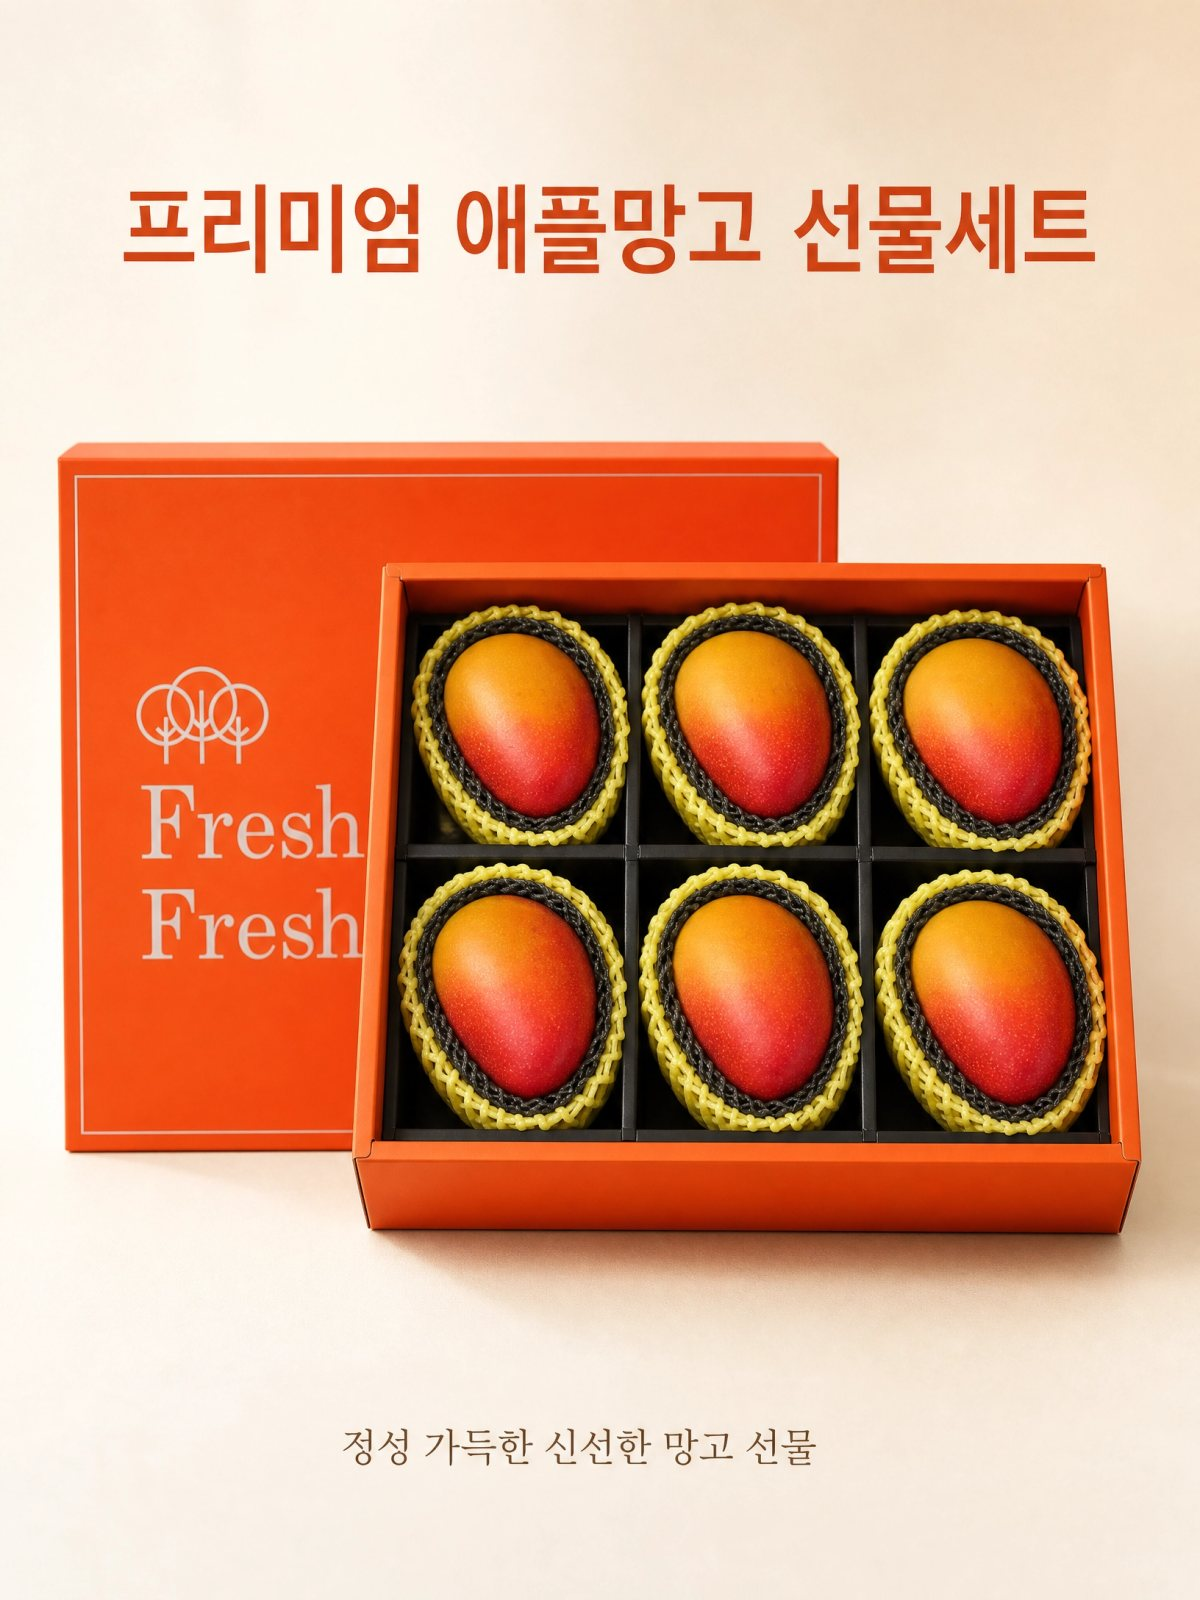
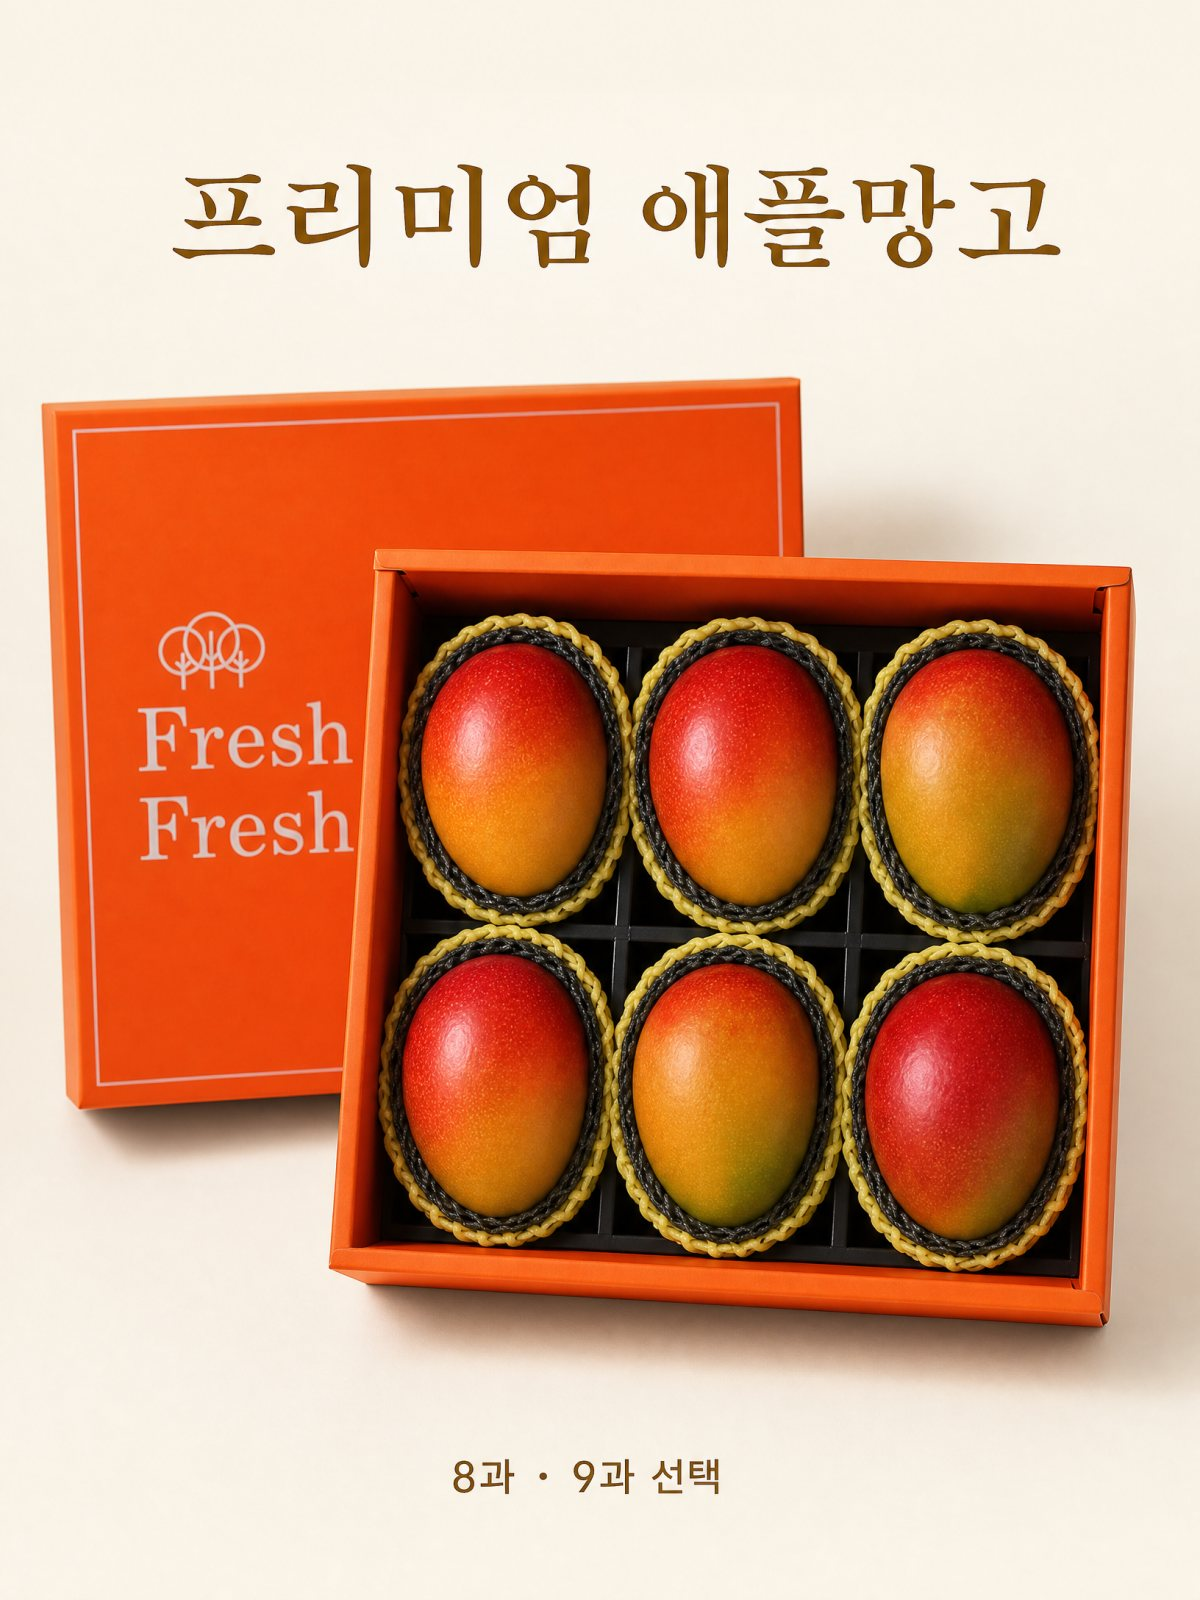
feat(catalog): 선물세트 이미지 갱신 — 가격 제거본 반영, 구성/가격 안내 이미지 제외
- 애플 프리미엄 대표컷 교체(mango_premium_apple_main, 가격 없음)
- 포장 안내 이미지 교체(가격 문구 제거본)
- 구성/가격 안내 이미지는 상세설명에서 제외(가격은 상품 페이지·설명 텍스트에 존재), 파일 삭제
- 상품 5종 상세설명에서 detail-options 참조 제거 → ImportedProductSeeder 동기화

diff --git a/database/seeders/ImportedProductSeeder.php b/database/seeders/ImportedProductSeeder.php
@@ -95,8 +95,7 @@ class ImportedProductSeeder extends Seeder
   · <b>선물가방 또는 보자기 포장</b> 선택 시 <b>2,500원</b>이 추가됩니다.<br>
   · 생물 특성상 개체별 크기·무게 및 포장 개수는 다소 달라질 수 있습니다.
 </div>
-<img src="images/giftset/orchard/detail-options.jpg" alt="상품 구성 및 가격 안내" style="width:100%;height:auto;display:block;border-radius:10px;margin:10px 0">
-<img src="images/giftset/orchard/detail-packaging.jpg" alt="마음을 전하는 신선한 망고 선물 · 포장 안내" style="width:100%;height:auto;display:block;border-radius:10px;margin:10px 0">
+  <img src="images/giftset/orchard/detail-packaging.jpg" alt="마음을 전하는 신선한 망고 선물 · 포장 안내" style="width:100%;height:auto;display:block;border-radius:10px;margin:10px 0">
 </div>',
     'origin' => '수입산',
     'variety' => '애플망고',
@@ -140,8 +139,7 @@ class ImportedProductSeeder extends Seeder
   · <b>선물가방 또는 보자기 포장</b> 선택 시 <b>2,500원</b>이 추가됩니다.<br>
   · 생물 특성상 개체별 크기·무게 및 포장 개수는 다소 달라질 수 있습니다.
 </div>
-<img src="images/giftset/orchard/detail-options.jpg" alt="상품 구성 및 가격 안내" style="width:100%;height:auto;display:block;border-radius:10px;margin:10px 0">
-<img src="images/giftset/orchard/detail-packaging.jpg" alt="마음을 전하는 신선한 망고 선물 · 포장 안내" style="width:100%;height:auto;display:block;border-radius:10px;margin:10px 0">
+  <img src="images/giftset/orchard/detail-packaging.jpg" alt="마음을 전하는 신선한 망고 선물 · 포장 안내" style="width:100%;height:auto;display:block;border-radius:10px;margin:10px 0">
 </div>',
     'origin' => '수입산',
     'variety' => '골드망고',
@@ -185,8 +183,7 @@ class ImportedProductSeeder extends Seeder
   · <b>선물가방 또는 보자기 포장</b> 선택 시 <b>2,500원</b>이 추가됩니다.<br>
   · 생물 특성상 개체별 크기·무게 및 포장 개수는 다소 달라질 수 있습니다.
 </div>
-<img src="images/giftset/orchard/detail-options.jpg" alt="상품 구성 및 가격 안내" style="width:100%;height:auto;display:block;border-radius:10px;margin:10px 0">
-<img src="images/giftset/orchard/detail-packaging.jpg" alt="마음을 전하는 신선한 망고 선물 · 포장 안내" style="width:100%;height:auto;display:block;border-radius:10px;margin:10px 0">
+  <img src="images/giftset/orchard/detail-packaging.jpg" alt="마음을 전하는 신선한 망고 선물 · 포장 안내" style="width:100%;height:auto;display:block;border-radius:10px;margin:10px 0">
 </div>',
     'origin' => '수입산',
     'variety' => '애플망고',
@@ -229,8 +226,7 @@ class ImportedProductSeeder extends Seeder
   · <b>선물가방 또는 보자기 포장</b> 선택 시 <b>2,500원</b>이 추가됩니다.<br>
   · 생물 특성상 개체별 크기·무게 및 포장 개수는 다소 달라질 수 있습니다.
 </div>
-<img src="images/giftset/orchard/detail-options.jpg" alt="상품 구성 및 가격 안내" style="width:100%;height:auto;display:block;border-radius:10px;margin:10px 0">
-<img src="images/giftset/orchard/detail-packaging.jpg" alt="마음을 전하는 신선한 망고 선물 · 포장 안내" style="width:100%;height:auto;display:block;border-radius:10px;margin:10px 0">
+  <img src="images/giftset/orchard/detail-packaging.jpg" alt="마음을 전하는 신선한 망고 선물 · 포장 안내" style="width:100%;height:auto;display:block;border-radius:10px;margin:10px 0">
 </div>',
     'origin' => '수입산',
     'variety' => '골드망고',
@@ -272,8 +268,7 @@ class ImportedProductSeeder extends Seeder
   · <b>선물가방 또는 보자기 포장</b> 선택 시 <b>2,500원</b>이 추가됩니다.<br>
   · 생물 특성상 개체별 크기·무게 및 포장 개수는 다소 달라질 수 있습니다.
 </div>
-<img src="images/giftset/orchard/detail-options.jpg" alt="상품 구성 및 가격 안내" style="width:100%;height:auto;display:block;border-radius:10px;margin:10px 0">
-<img src="images/giftset/orchard/detail-packaging.jpg" alt="마음을 전하는 신선한 망고 선물 · 포장 안내" style="width:100%;height:auto;display:block;border-radius:10px;margin:10px 0">
+  <img src="images/giftset/orchard/detail-packaging.jpg" alt="마음을 전하는 신선한 망고 선물 · 포장 안내" style="width:100%;height:auto;display:block;border-radius:10px;margin:10px 0">
 </div>',
     'origin' => '수입산',
     'variety' => '혼합과일',
